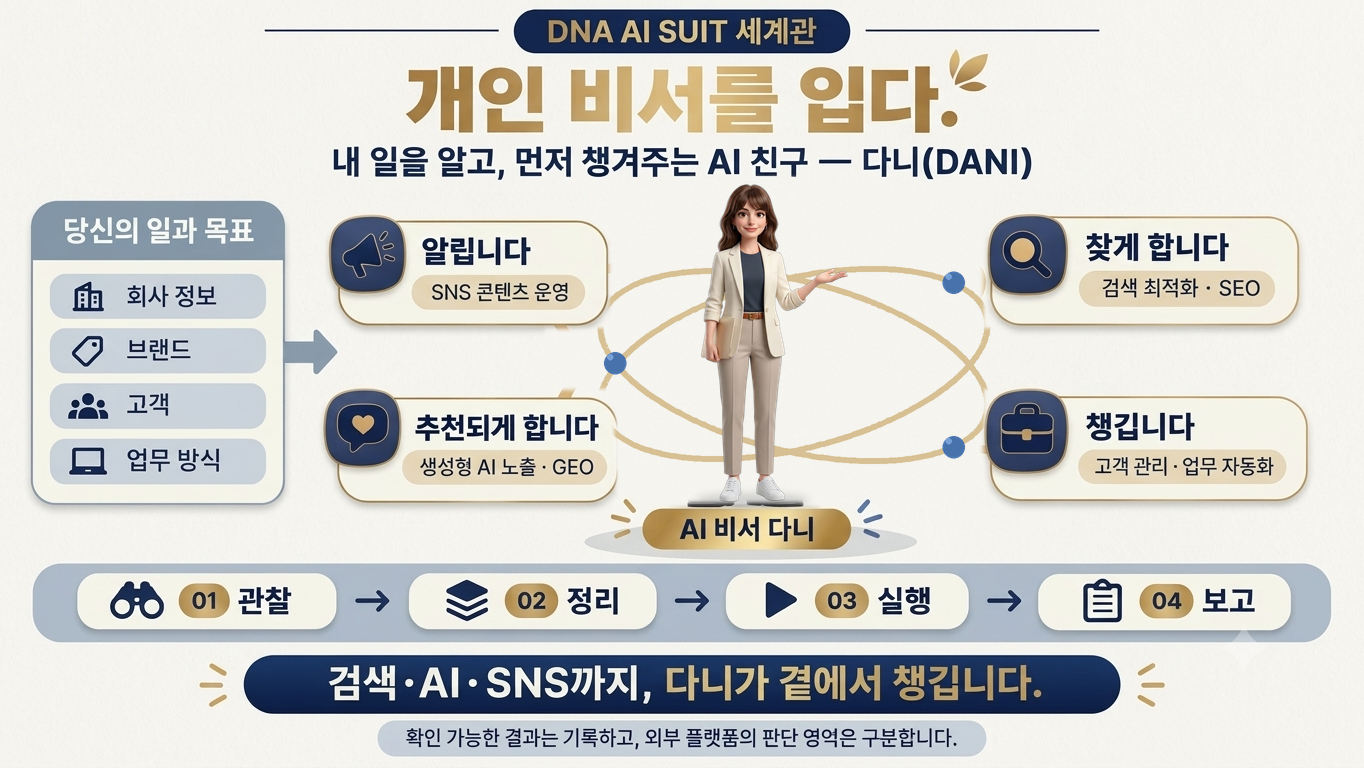
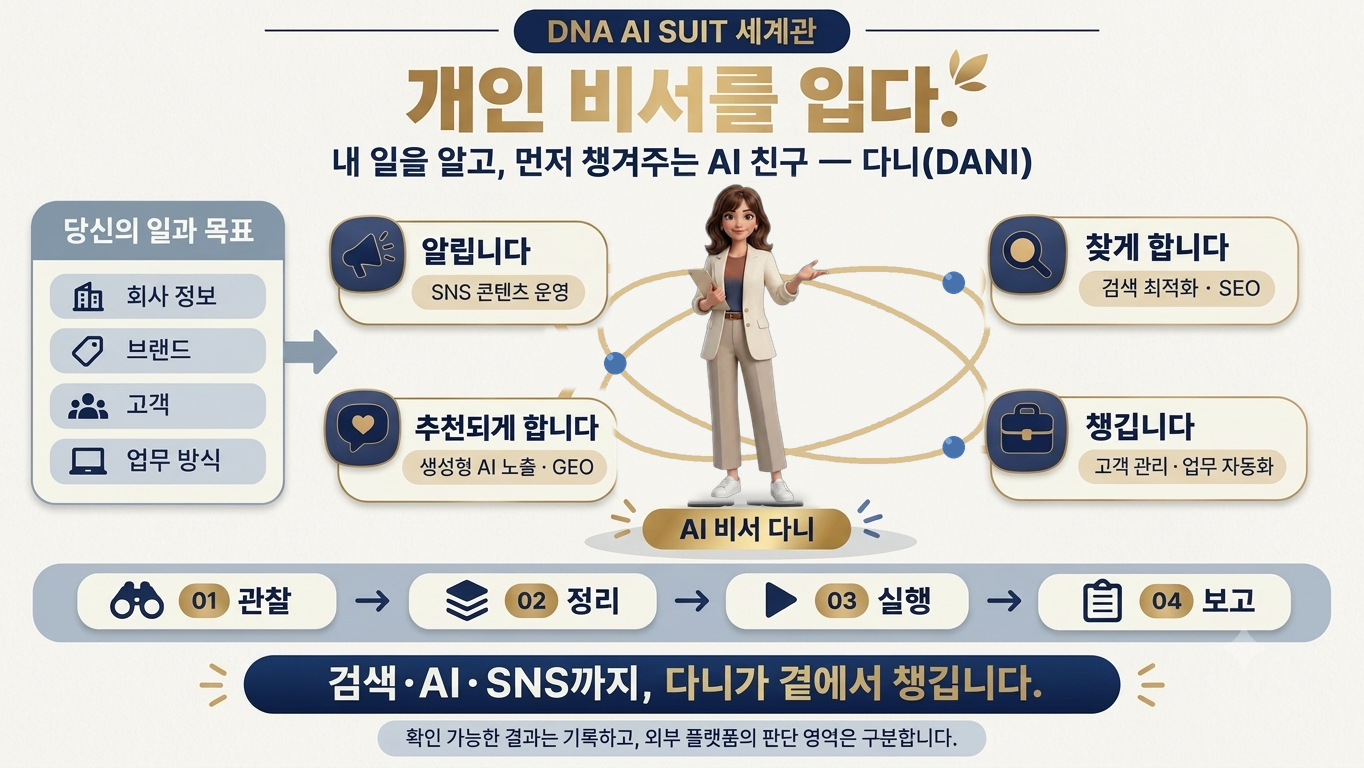
Switch DANI mascot and infographic to user-selected cutout (v20261118b)

Changed region(s): [[0.4927, 0.2188, 0.6158, 0.6562]]

diff --git a/index.html b/index.html
@@ -19,7 +19,7 @@
   <meta property="og:title" content="DNA AI 슈트 | 개인 비서를 입다">
   <meta property="og:description" content="검색·생성형 AI·SNS를 하나의 고객 유입 흐름으로 연결하는 AI 마케팅·브랜딩 파트너입니다.">
   <meta property="og:url" content="https://alexchoi21.github.io/">
-  <meta property="og:image" content="https://alexchoi21.github.io/dani-world-infographic.png?v=20261118">
+  <meta property="og:image" content="https://alexchoi21.github.io/dani-world-infographic.png?v=20261118b">
   <meta property="og:image:width" content="1364">
   <meta property="og:image:height" content="768">
   <meta property="og:image:alt" content="DNA AI 슈트 세계관 — 개인 비서를 입다, AI 비서 다니">
@@ -27,7 +27,7 @@
   <meta name="twitter:card" content="summary_large_image">
   <meta name="twitter:title" content="DNA AI 슈트 | 개인 비서를 입다">
   <meta name="twitter:description" content="AI 마케팅 자동화, 네이버 상위노출·챗GPT 추천(SEO/GEO), 기업용 AI 보안, 맞춤형 AI 플랫폼 및 AI SaaS 서비스 구축">
-  <meta name="twitter:image" content="https://alexchoi21.github.io/dani-world-infographic.png?v=20261118">
+  <meta name="twitter:image" content="https://alexchoi21.github.io/dani-world-infographic.png?v=20261118b">
 
   <link rel="icon" type="image/svg+xml" href="favicon.svg">
   <link rel="preconnect" href="https://fonts.googleapis.com">
@@ -228,7 +228,7 @@
       </div>
       <div class="hero-art dani-stage">
         <div class="art-caption">YOUR WORK, BETTER CARED FOR<br><strong>AI SECRETARY DANI</strong></div>
-        <img class="dani-hero" src="dani-mascot.png?v=20261118" alt="검색, SNS, 고객 관리와 업무 자동화를 챙기는 친근한 AI 비서 다니">
+        <img class="dani-hero" src="dani-mascot.png?v=20261118b" alt="검색, SNS, 고객 관리와 업무 자동화를 챙기는 친근한 AI 비서 다니">
         <span class="art-index">01&nbsp; / &nbsp;ALWAYS BY YOUR SIDE</span>
       </div>
     </section>
@@ -263,7 +263,7 @@
         <p>다니는 단순한 캐릭터가 아니라 DNA AI 슈트의 서비스 경험입니다. 사용자의 목표를 이해하고, 필요한 일을 정리하고, 실행 과정과 확인 가능한 결과를 알기 쉽게 보고합니다.</p>
       </div>
       <figure class="dani-world-figure">
-        <img src="dani-world-infographic.png?v=20261118" alt="사용자의 목표를 바탕으로 SNS 콘텐츠 운영, 검색 최적화, 생성형 AI 노출, 고객 관리와 업무 자동화를 수행하는 AI 비서 다니의 세계관">
+        <img src="dani-world-infographic.png?v=20261118b" alt="사용자의 목표를 바탕으로 SNS 콘텐츠 운영, 검색 최적화, 생성형 AI 노출, 고객 관리와 업무 자동화를 수행하는 AI 비서 다니의 세계관">
         <figcaption>관찰 → 정리 → 실행 → 보고. 확인 가능한 결과는 기록하고 외부 플랫폼의 판단 영역은 구분합니다.</figcaption>
       </figure>
     </section>
